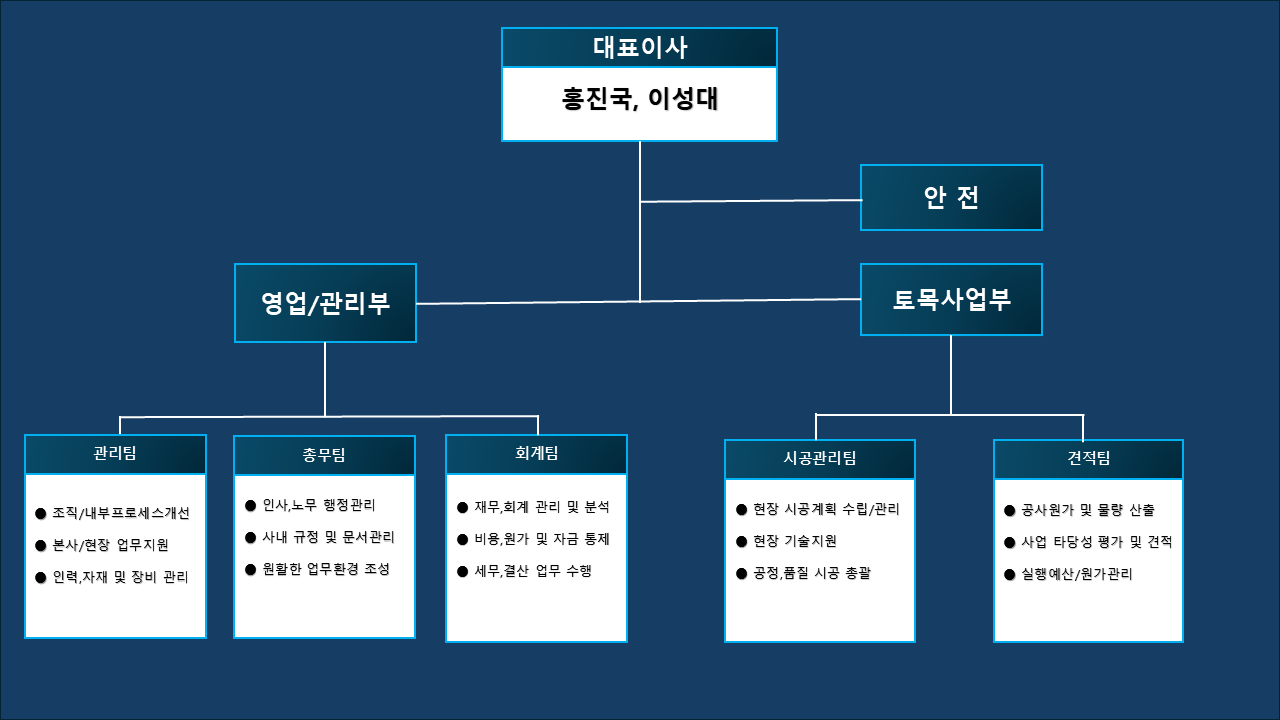
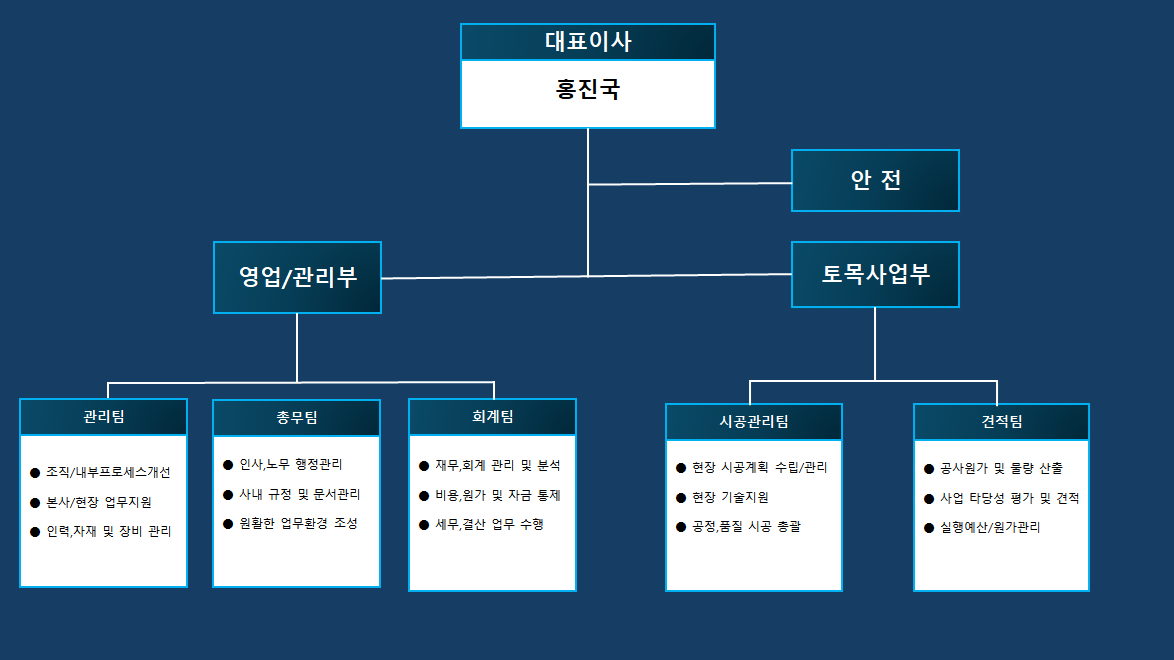
Add files via upload

diff --git a/index.html b/index.html
@@ -1054,7 +1054,7 @@ nav a:hover::after {
         <div>
             <h3>동진토건(주)</h3>
             <p>기본과 원칙을 준수하는 기업</p>
-            <p>대표이사 : 홍진국, 이성대</p>
+            <p>대표이사 : 홍진국</p>
         </div>
         <div>
             <p>주소 : 경기도 하남시 미사강변중앙로 210, 1006호</p>

diff --git a/company.html b/company.html
@@ -854,7 +854,7 @@
                 <div class="icon"><span>👤</span></div>
                 <div class="text">
                     <h3>대표자</h3>
-                    <p>홍진국 / 이성대</p>
+                    <p>홍진국</p>
                 </div>
             </div>
 
